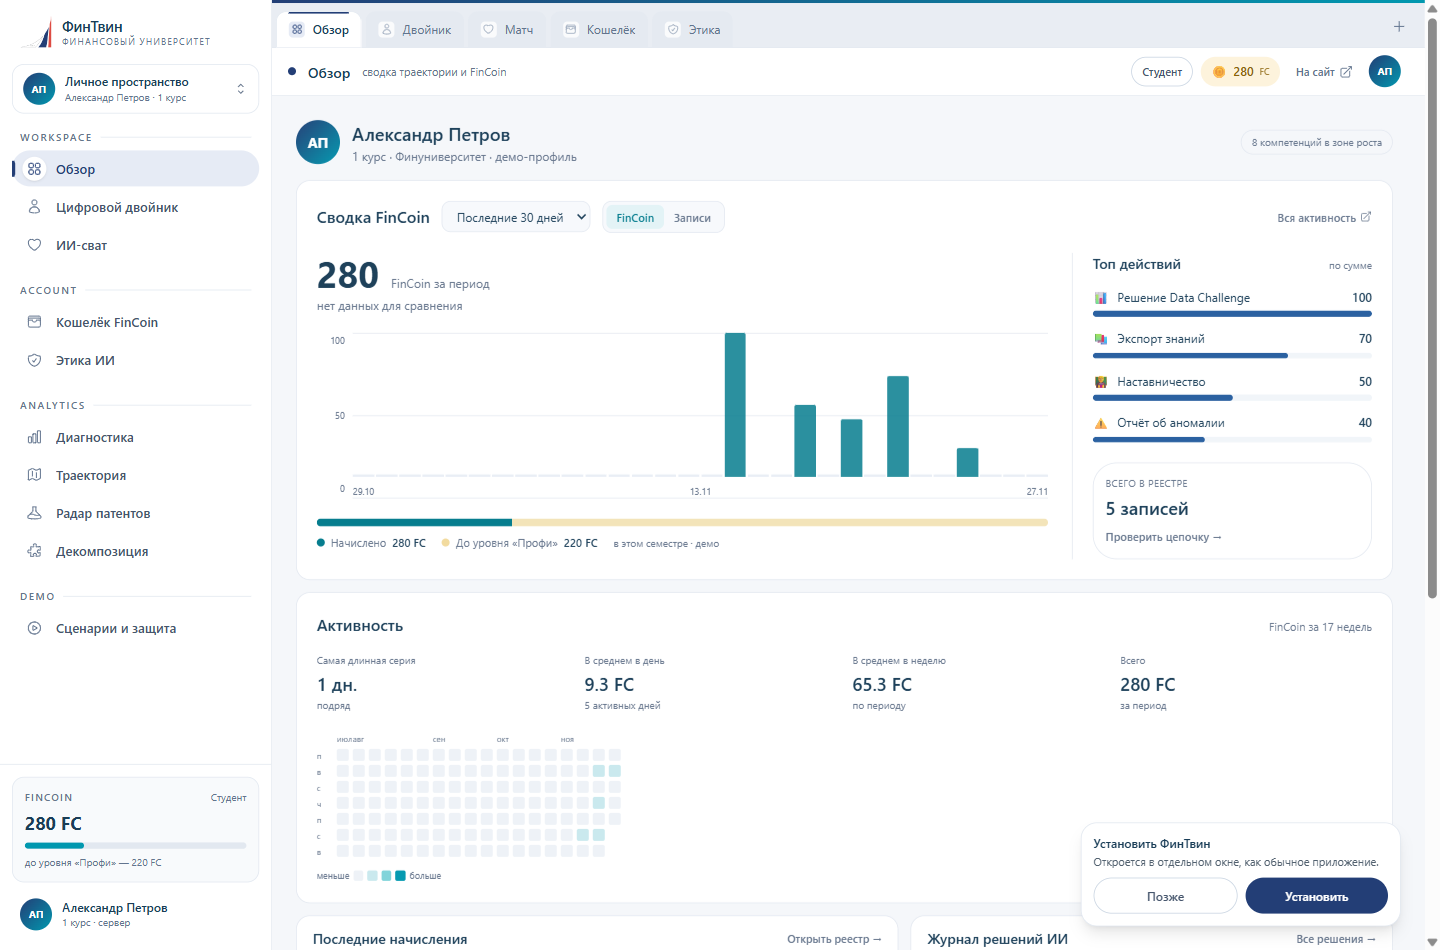
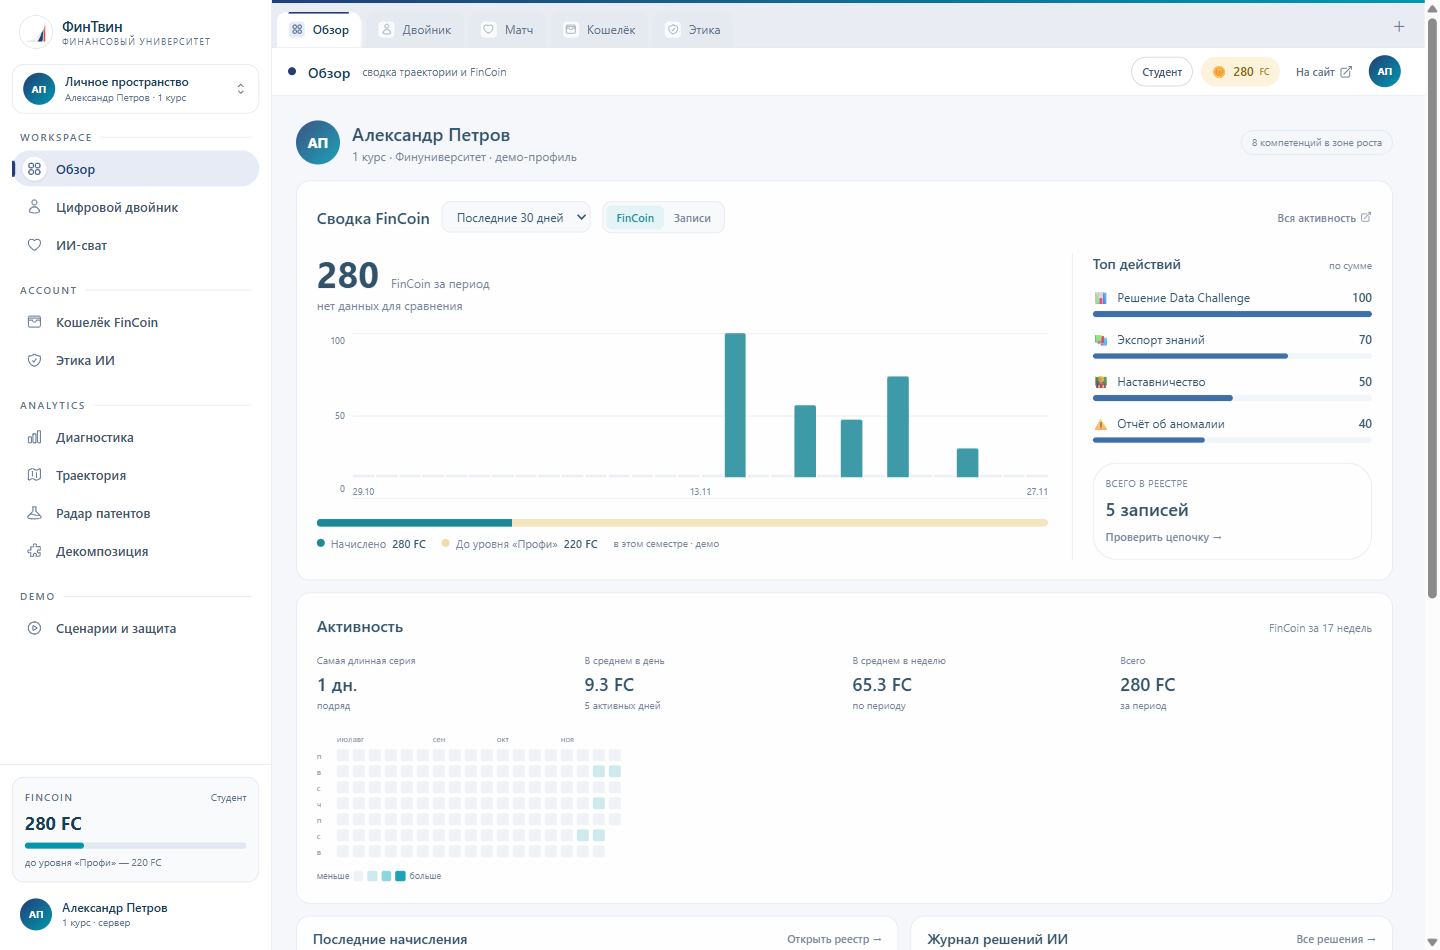
feat(pwa): polish mobile shell, install sheet and offline page

diff --git a/src/shared/components/TopBar.tsx b/src/shared/components/TopBar.tsx
@@ -95,47 +95,54 @@ const TopBar: React.FC = () => {
   return (
     <>
       {/* Мобильная шапка: компактная, как в Telegram Mini App */}
-      <header className="sticky top-0 z-20 border-b border-slate-200/70 bg-white/90 px-4 py-2.5 backdrop-blur lg:hidden">
-        <div className="flex items-center justify-between gap-2">
-          <Link to="/" className="flex min-w-0 items-center gap-2.5" aria-label="На главную">
-            <span
-              className="flex h-9 w-9 shrink-0 items-center justify-center rounded-full text-xs font-bold text-white"
-              style={{ background: 'var(--brand)' }}
-              aria-hidden="true"
-            >
-              {initials}
-            </span>
-            <span className="min-w-0">
-              <span className="block truncate text-sm font-semibold text-[color:var(--ink)]">
-                {firstName}
+      <header className="sticky top-0 z-20 bg-white/90 pt-[env(safe-area-inset-top)] backdrop-blur lg:hidden">
+        <div
+          className="h-[2px] w-full"
+          style={{ background: 'linear-gradient(90deg, #233e76 0%, #0198af 100%)' }}
+          aria-hidden="true"
+        />
+        <div className="border-b border-slate-200/70 px-4 py-2.5">
+          <div className="flex items-center justify-between gap-2">
+            <Link to="/" className="flex min-w-0 items-center gap-2.5" aria-label="На главную">
+              <span
+                className="flex h-9 w-9 shrink-0 items-center justify-center rounded-full text-xs font-bold text-white"
+                style={{ background: 'var(--brand)' }}
+                aria-hidden="true"
+              >
+                {initials}
               </span>
-              <span className="block whitespace-nowrap text-[10px] text-[color:var(--ink-muted)]">
-                {user.course} курс · Финуниверситет
+              <span className="min-w-0">
+                <span className="block truncate text-sm font-semibold text-[color:var(--ink)]">
+                  {firstName}
+                </span>
+                <span className="block truncate text-[10px] text-[color:var(--ink-muted)]">
+                  {user.course} курс · Финансовый университет
+                </span>
               </span>
-            </span>
-          </Link>
-
-          <div className="flex shrink-0 items-center gap-1.5">
-            <Link
-              to="/wallet"
-              className="tnum flex items-center gap-1 rounded-full px-2.5 py-1 text-sm font-semibold"
-              style={{ background: 'var(--gold-soft)', color: '#8a6209' }}
-              aria-label={`Баланс ${balance} FinCoin`}
-            >
-              <span aria-hidden="true">🪙</span>
-              {balance}
-              <span className="text-[10px] font-medium">FC</span>
             </Link>
 
-            <button
-              type="button"
-              onClick={() => setUserRole(userRole === 'student' ? 'partner' : 'student')}
-              className="min-h-[36px] rounded-full border border-slate-300 px-2.5 text-[11px] font-medium text-slate-700 transition-colors hover:border-[color:var(--brand)] hover:text-[color:var(--brand)]"
-              aria-pressed={userRole === 'partner'}
-              aria-label="Переключить роль: студент или партнёр"
-            >
-              {userRole === 'student' ? 'Студент' : 'Партнёр'}
-            </button>
+            <div className="flex shrink-0 items-center gap-1.5">
+              <Link
+                to="/wallet"
+                className="tnum flex items-center gap-1 rounded-full px-2.5 py-1 text-sm font-semibold"
+                style={{ background: 'var(--gold-soft)', color: '#8a6209' }}
+                aria-label={`Баланс ${balance} FinCoin`}
+              >
+                <span aria-hidden="true">🪙</span>
+                {balance}
+                <span className="text-[10px] font-medium">FC</span>
+              </Link>
+
+              <button
+                type="button"
+                onClick={() => setUserRole(userRole === 'student' ? 'partner' : 'student')}
+                className="min-h-[36px] rounded-full border border-slate-300 px-2.5 text-[11px] font-medium text-slate-700 transition-colors hover:border-[color:var(--brand)] hover:text-[color:var(--brand)]"
+                aria-pressed={userRole === 'partner'}
+                aria-label="Переключить роль: студент или партнёр"
+              >
+                {userRole === 'student' ? 'Студент' : 'Партнёр'}
+              </button>
+            </div>
           </div>
         </div>
       </header>

diff --git a/src/shared/components/InstallPrompt.tsx b/src/shared/components/InstallPrompt.tsx
@@ -32,22 +32,38 @@ const InstallPrompt: React.FC = () => {
 
   return (
     <div
-      className="fixed bottom-[calc(76px+env(safe-area-inset-bottom))] left-1/2 z-30 w-[calc(100%-24px)] max-w-[456px] -translate-x-1/2 rounded-2xl border border-slate-200 bg-white p-3 shadow-lg lg:bottom-6 lg:left-auto lg:right-6 lg:w-[320px] lg:translate-x-0"
+      className="fixed bottom-[calc(76px+env(safe-area-inset-bottom))] left-1/2 z-30 w-[calc(100%-24px)] max-w-[456px] -translate-x-1/2 rounded-2xl border border-slate-200 bg-white p-4 shadow-xl lg:bottom-6 lg:left-auto lg:right-6 lg:w-[340px] lg:translate-x-0"
       role="region"
       aria-label="Установка приложения"
     >
-      <p className="text-xs font-semibold text-[color:var(--ink)]">Установить ФинТвин</p>
-      <p className="mt-0.5 text-[11px] text-[color:var(--ink-muted)]">
-        Откроется в отдельном окне, как обычное приложение.
-      </p>
-      <div className="mt-2 flex gap-2">
+      <div className="flex items-start gap-3">
+        <span
+          className="flex h-10 w-10 shrink-0 items-center justify-center rounded-xl"
+          style={{ background: 'var(--brand-soft)' }}
+          aria-hidden="true"
+        >
+          <img
+            src="/static/web/brand/icon-192.png"
+            alt=""
+            className="h-7 w-7 rounded object-contain"
+          />
+        </span>
+        <div className="min-w-0">
+          <p className="text-sm font-semibold text-[color:var(--ink)]">Установить ФинТвин</p>
+          <p className="mt-0.5 text-[11px] leading-snug text-[color:var(--ink-muted)]">
+            Отдельное окно, запуск с рабочего стола и офлайн-оболочка.
+          </p>
+        </div>
+      </div>
+
+      <div className="mt-3 flex gap-2">
         <button
           type="button"
           onClick={() => {
             window.localStorage.setItem(STORAGE_KEY, '1');
             setDismissed(true);
           }}
-          className="min-h-[36px] flex-1 rounded-lg border border-slate-300 text-xs font-medium text-slate-600"
+          className="min-h-[40px] flex-1 rounded-lg border border-slate-300 text-xs font-medium text-slate-600"
         >
           Позже
         </button>
@@ -58,7 +74,7 @@ const InstallPrompt: React.FC = () => {
             await deferred.userChoice;
             setDeferred(null);
           }}
-          className="min-h-[36px] flex-1 rounded-lg text-xs font-semibold text-white"
+          className="min-h-[40px] flex-1 rounded-lg text-xs font-semibold text-white"
           style={{ background: 'var(--brand)' }}
         >
           Установить

diff --git a/src/shared/components/NavigationBar.tsx b/src/shared/components/NavigationBar.tsx
@@ -22,7 +22,7 @@ const NavigationBar: React.FC = () => {
       className="fixed bottom-0 left-0 right-0 z-20 border-t border-slate-200 bg-white/95 backdrop-blur"
       aria-label="Основная навигация"
     >
-      <ul className="mx-auto flex max-w-[480px] justify-around">
+      <ul className="mx-auto flex max-w-[480px] justify-around px-1">
         {navigationItems.map(({ to, label, icon: Icon, end }) => (
           <li key={to} className="flex-1">
             <NavLink
@@ -30,15 +30,34 @@ const NavigationBar: React.FC = () => {
               end={end}
               className={({ isActive }) =>
                 [
-                  'flex min-h-[56px] flex-col items-center justify-center gap-1 px-2 py-2 text-[11px] font-medium transition-colors',
-                  isActive ? 'text-[color:var(--brand)]' : 'text-slate-500 hover:text-slate-800',
+                  'relative flex min-h-[58px] flex-col items-center justify-center gap-0.5 px-1 pb-1.5 pt-2 text-[10px] transition-colors',
+                  isActive ? 'font-semibold text-[color:var(--brand)]' : 'font-medium text-slate-500',
                 ].join(' ')
               }
               aria-label={label}
             >
               {({ isActive }) => (
                 <>
-                  <Icon className="h-6 w-6" aria-hidden="true" strokeWidth={isActive ? 2.2 : 1.6} />
+                  <span
+                    className="absolute top-0 h-[2px] w-7 rounded-b-full transition-opacity"
+                    style={{
+                      background: 'var(--brand)',
+                      opacity: isActive ? 1 : 0,
+                    }}
+                    aria-hidden="true"
+                  />
+                  <span
+                    className={[
+                      'flex h-7 w-11 items-center justify-center rounded-full transition-colors',
+                      isActive ? 'bg-[color:var(--brand-soft)]' : '',
+                    ].join(' ')}
+                  >
+                    <Icon
+                      className="h-5 w-5"
+                      aria-hidden="true"
+                      strokeWidth={isActive ? 2.2 : 1.6}
+                    />
+                  </span>
                   <span>{label}</span>
                 </>
               )}

diff --git a/api/web/templates/web/offline.html b/api/web/templates/web/offline.html
@@ -4,12 +4,28 @@
 
 {% block content %}
 <div class="auth-card">
+  <a class="auth-brand" href="/">
+    <img
+      src="/static/web/brand/icon-192.png"
+      alt=""
+      height="34"
+      width="34"
+    />
+    <span>ФинТвин</span>
+  </a>
+
   <h1>Нет соединения</h1>
   <p class="auth-sub">
-    Приложение открылось из кэша. Часть данных недоступна без сети — например, реестр FinCoin и подбор задач.
+    Приложение открылось из сохранённой оболочки. Баланс, задачи и реестр появятся,
+    когда вернётся сеть — эти данные всегда считаются на сервере.
   </p>
+
+  <div class="notice" style="margin-top: 16px">
+    Пока сети нет, можно открыть уже загруженные экраны. Начисления не выполняются.
+  </div>
+
   <p style="margin-top: 16px">
-    <a class="btn btn-primary btn-block" href="/app/">Попробовать снова</a>
+    <a class="btn btn-primary btn-block" href="/app/">Повторить</a>
   </p>
   <a class="link-back" href="/">← На главную</a>
 </div>

diff --git a/src/app/Sidebar.tsx b/src/app/Sidebar.tsx
@@ -103,9 +103,9 @@ const Sidebar: React.FC = () => {
       {/* Логотип продукта */}
       <div className="flex h-16 shrink-0 items-center gap-2.5 px-5">
         <img
-          src="/static/web/brand/emblem.png"
+          src="/static/web/brand/icon-192.png"
           alt=""
-          className="h-8 w-8 shrink-0 object-contain"
+          className="h-8 w-8 shrink-0 rounded-md object-contain ring-1 ring-slate-200"
         />
         <span className="min-w-0 leading-tight">
           <span className="block text-[15px] font-semibold tracking-tight text-[color:var(--ink)]">

diff --git a/index.html b/index.html
@@ -3,7 +3,7 @@
   <head>
     <meta charset="UTF-8" />
     <meta name="viewport" content="width=device-width, initial-scale=1.0, viewport-fit=cover" />
-    <meta name="theme-color" content="#123a63" />
+    <meta name="theme-color" content="#233e76" />
     <meta
       name="description"
       content="ФинТвин — демонстрационная модель Университета 4.0: цифровой двойник, ИИ-сват, FinCoin и этика алгоритмов."
